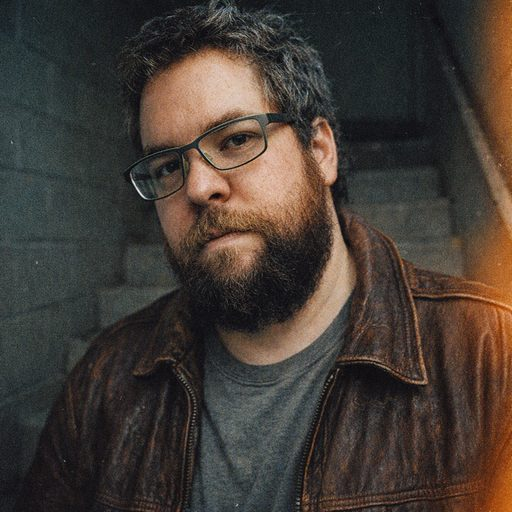
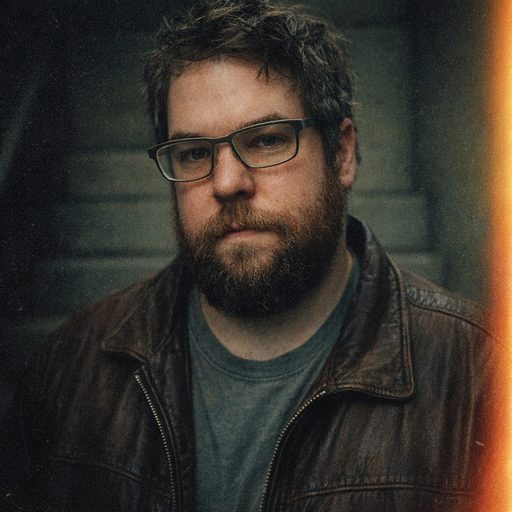
About page: 90s album-art stickers and a corrected Darrin portrait
Adds a hit-single hype sticker, barcode/catalog label, and a work-safe parody parental advisory label as scalable CSS overlays on the banner. Regenerates Darrin's portrait at eye level to remove selfie-lens distortion.

diff --git a/docs/.vitepress/theme/custom.css b/docs/.vitepress/theme/custom.css
@@ -743,6 +743,7 @@ html:not(.dark) .goal-card-emoji {
 .album-cover {
   position: relative;
   overflow: hidden;
+  container-type: inline-size;
   border-radius: 6px;
   box-shadow: 0 18px 48px rgba(0, 0, 0, 0.35);
 }
@@ -763,7 +764,8 @@ html:not(.dark) .goal-card-emoji {
   gap: 0.35em;
   color: #f4ead8;
   text-shadow: 0 2px 12px rgba(0, 0, 0, 0.6);
-  font-size: clamp(0.8rem, 2.6vw, 2rem);
+  font-size: 2.9cqw;
+  line-height: 1.15;
   pointer-events: none;
 }
 
@@ -783,21 +785,120 @@ html:not(.dark) .goal-card-emoji {
   opacity: 0.85;
 }
 
-.album-sticker {
+.album-hype,
+.album-barcode,
+.album-advisory {
   position: absolute;
-  right: 4%;
-  bottom: 6%;
-  padding: 0.5em 0.8em;
-  border: 2px solid #111;
-  background: #f4ead8;
+  pointer-events: none;
+  line-height: 1;
+  text-align: center;
+}
+
+/* Round "hit single" hype sticker, top right over the hangar */
+.album-hype {
+  top: 1.5cqw;
+  right: 3cqw;
+  display: flex;
+  flex-direction: column;
+  justify-content: center;
+  gap: 0.5cqw;
+  width: 13cqw;
+  height: 13cqw;
+  padding: 1.2cqw;
+  border-radius: 50%;
+  background: radial-gradient(circle at 35% 30%, #ffe45c, #f5c400 70%);
+  box-shadow: 0 0.4cqw 1.2cqw rgba(0, 0, 0, 0.45);
+  color: #b3121b;
+  font-family: "Arial Black", "Helvetica Neue", Arial, sans-serif;
+  transform: rotate(12deg);
+}
+
+.album-hype-lead {
+  font-size: 1cqw;
+  font-weight: 700;
+  letter-spacing: 0.05em;
+  text-transform: uppercase;
+}
+
+.album-hype-title {
+  font-size: 1.55cqw;
+  font-weight: 900;
+  line-height: 1.1;
+}
+
+/* Barcode and catalog number, bottom left like a back-cover shrink-wrap label */
+.album-barcode {
+  bottom: 3cqw;
+  left: 3cqw;
+  display: flex;
+  flex-direction: column;
+  gap: 0.4cqw;
+  padding: 0.8cqw 1cqw 0.7cqw;
+  background: #f4f1ea;
   color: #111;
   font-family: "Courier New", Courier, monospace;
-  font-size: clamp(0.55rem, 1.1vw, 0.8rem);
+  box-shadow: 0 0.3cqw 0.8cqw rgba(0, 0, 0, 0.4);
+}
+
+.album-barcode-bars {
+  display: block;
+  width: 11cqw;
+  height: 4cqw;
+  background: repeating-linear-gradient(
+    90deg,
+    #111 0 2px,
+    transparent 2px 3px,
+    #111 3px 4px,
+    transparent 4px 7px,
+    #111 7px 10px,
+    transparent 10px 11px,
+    #111 11px 12px,
+    transparent 12px 14px
+  );
+}
+
+.album-barcode-digits {
+  font-size: 0.95cqw;
+  letter-spacing: 0.15em;
+}
+
+.album-barcode-cat {
+  font-size: 0.75cqw;
   font-weight: 700;
-  line-height: 1.3;
-  text-align: center;
   text-transform: uppercase;
-  transform: rotate(-4deg);
+}
+
+/* Parody parental advisory label, bottom right */
+.album-advisory {
+  right: 3cqw;
+  bottom: 3cqw;
+  display: flex;
+  flex-direction: column;
+  width: max-content;
+  min-width: 13cqw;
+  padding: 0 0.4cqw;
+  border: 0.35cqw solid #fff;
+  background: #000;
+  color: #fff;
+  font-family: "Arial Black", "Helvetica Neue", Arial, sans-serif;
+  font-weight: 900;
+  text-transform: uppercase;
+}
+
+.album-advisory-top,
+.album-advisory-bottom {
+  padding: 0.45cqw 0 0.35cqw;
+  font-size: 1.05cqw;
+  letter-spacing: 0.08em;
+  white-space: nowrap;
+}
+
+.album-advisory-mid {
+  padding: 0.35cqw 0 0.25cqw;
+  background: #fff;
+  color: #000;
+  font-size: 2.15cqw;
+  letter-spacing: 0.02em;
 }
 
 .about-page .album figcaption {

diff --git a/docs/about.md b/docs/about.md
@@ -14,7 +14,20 @@ description: Meet the V-team behind the Imagineer Hack and AI Flight Academy.
       <span class="album-band">The Ground Crew</span>
       <span class="album-name">Cleared for Takeoff</span>
     </div>
-    <span class="album-sticker" aria-hidden="true">Limited pressing<br>Team Week 2026</span>
+    <span class="album-hype" aria-hidden="true">
+      <span class="album-hype-lead">Includes the hit single</span>
+      <span class="album-hype-title">"My Army of Agents"</span>
+    </span>
+    <span class="album-barcode" aria-hidden="true">
+      <span class="album-barcode-bars"></span>
+      <span class="album-barcode-digits">0 26004 10062 6</span>
+      <span class="album-barcode-cat">GS-004 · Limited pressing</span>
+    </span>
+    <span class="album-advisory" aria-hidden="true">
+      <span class="album-advisory-top">Parental</span>
+      <span class="album-advisory-mid">Advisory</span>
+      <span class="album-advisory-bottom">Agentic content</span>
+    </span>
   </div>
   <figcaption>
     <strong>The Ground Crew - <em>Cleared for Takeoff</em></strong> (2026). Pictured, left to right: Erin Jacobsen, Matt Quinlan, Darrin Hanson, Andrew Conniff, Steve Luper, Dipanjan Ghosh, Christian Talavera, Iliyas Chawdhary, Aurelie Saada, George Smpyrakis.
